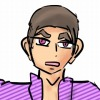
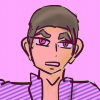
color change

diff --git a/themes/hugrid/static/css/component.css b/themes/hugrid/static/css/component.css
@@ -119,7 +119,7 @@
 	font-weight: 400;
 	font-size: 16px;
 	line-height: 22px;
-	color: #999;
+	color: #666;
 }
 
 .og-details a {
@@ -151,7 +151,7 @@
 	height: 20px;
 	border-radius: 50%;
 	background: #ddd;
-	box-shadow: 0 0 1px #ccc, 15px 30px 1px #ccc, -15px 30px 1px #ccc;
+	box-shadow: 0 0 1px #ddd, 15px 30px 1px #ddd, -15px 30px 1px #ddd;
 	position: absolute;
 	top: 50%;
 	left: 50%;
@@ -163,20 +163,20 @@
 
 @-webkit-keyframes loader {
 	0% { background: #ddd; }
-	33% { background: #ccc; box-shadow: 0 0 1px #ccc, 15px 30px 1px #ccc, -15px 30px 1px #ddd; }
-	66% { background: #ccc; box-shadow: 0 0 1px #ccc, 15px 30px 1px #ddd, -15px 30px 1px #ccc; }
+	33% { background: #ddd; box-shadow: 0 0 1px #ddd, 15px 30px 1px #ddd, -15px 30px 1px #ddd; }
+	66% { background: #ddd; box-shadow: 0 0 1px #ddd, 15px 30px 1px #ddd, -15px 30px 1px #ddd; }
 }
 
 @-moz-keyframes loader {
 	0% { background: #ddd; }
-	33% { background: #ccc; box-shadow: 0 0 1px #ccc, 15px 30px 1px #ccc, -15px 30px 1px #ddd; }
-	66% { background: #ccc; box-shadow: 0 0 1px #ccc, 15px 30px 1px #ddd, -15px 30px 1px #ccc; }
+	33% { background: #ddd; box-shadow: 0 0 1px #ddd, 15px 30px 1px #ddd, -15px 30px 1px #ddd; }
+	66% { background: #ddd; box-shadow: 0 0 1px #ddd, 15px 30px 1px #ddd, -15px 30px 1px #ddd; }
 }
 
 @keyframes loader {
 	0% { background: #ddd; }
-	33% { background: #ccc; box-shadow: 0 0 1px #ccc, 15px 30px 1px #ccc, -15px 30px 1px #ddd; }
-	66% { background: #ccc; box-shadow: 0 0 1px #ccc, 15px 30px 1px #ddd, -15px 30px 1px #ccc; }
+	33% { background: #ddd; box-shadow: 0 0 1px #ddd, 15px 30px 1px #ddd, -15px 30px 1px #ddd; }
+	66% { background: #ddd; box-shadow: 0 0 1px #ddd, 15px 30px 1px #ddd, -15px 30px 1px #ddd; }
 }
 
 @media screen and (max-width: 830px) {
@@ -184,12 +184,13 @@
 	.og-expander h3 { font-size: 32px; }
 	.og-expander p { font-size: 13px; }
 	.og-expander a { font-size: 12px; }
-
+  .og-grid {padding:10px 50px;}
 }
 
 @media screen and (max-width: 650px) {
 
 	.og-fullimg { display: none; }
 	.og-details { float: none; width: 100%; }
+	.og-grid {padding:10px 20px;}
 
 }

diff --git a/themes/hugrid/static/css/default.css b/themes/hugrid/static/css/default.css
@@ -32,6 +32,7 @@ body {
     font-family: 'Lato', Calibri, Arial, sans-serif;
     font-weight: 300;
     font-size: 15px;
+		background: #eee;
     color: #333;
     overflow: scroll;
     overflow-x: hidden;
